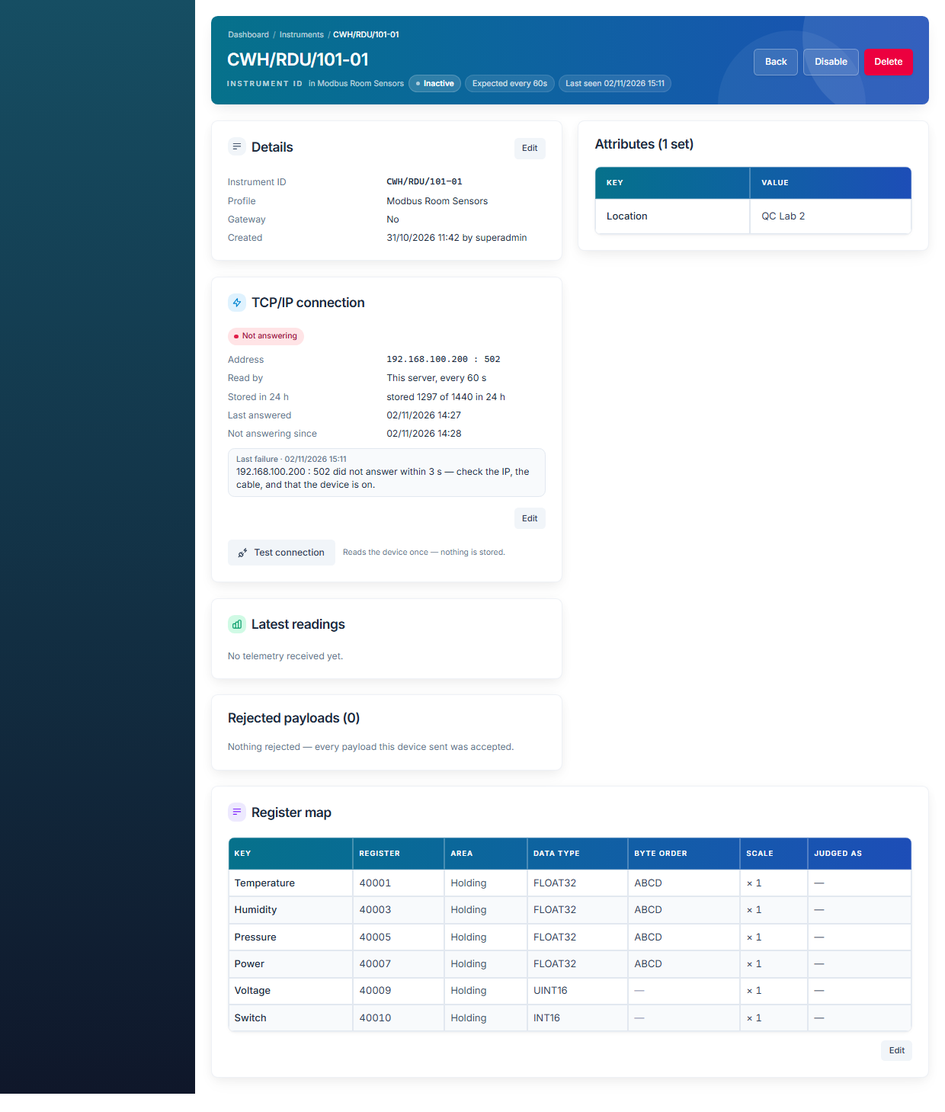
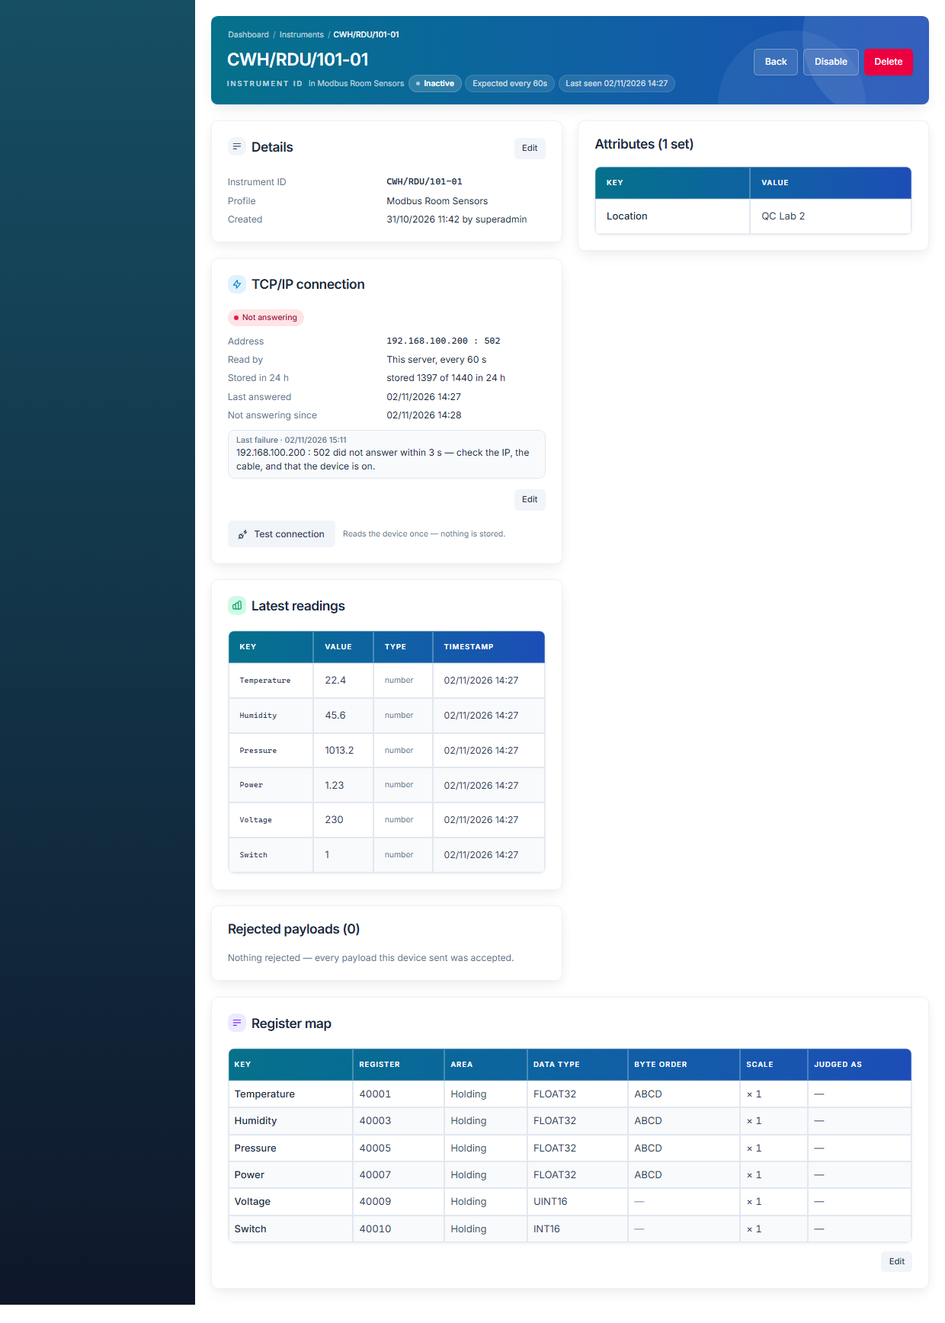
docs: TCP/IP (Modbus) instruments — the final review fixes
F-10. docs/feature-notes.md TCP/IP INSTRUMENTS: the Reader paragraph names the
"not answering" back-off (F-5); the storage-failure rule drops ruling T9-3's
"neither advanced NOR reset" for F-4's reset; the status route's state rule is
`not-read` before `failing` (F-2) and its card's error state (F-8); Security
says a device certificate is refused for a TCP/IP instrument (F-3). A short
"Final review fixes" paragraph records F-1 … F-9; the "Open, for the final
review" list is replaced by what the review left open (rulings F-parked) —
the fixed items gone, including the stale "two transactions" line (fixed in
45e1248d). CHANGELOG.md: one line under the TCP/IP entry.

Reference screens re-shot by the render-check method (built stylesheet from an
out-of-tree vite build, Inter inlined, headless Chrome at 1240 px; the
temporary dump harness deleted): built-detail-failing.png with a coherent
polled fixture (last seen = last answered = the latest readings' time, header
Inactive beside the card's Not answering, no Gateway row) and
built-detail-not-read.png for F-2 (reading OFF over a stale failingSince:
"Not read" with its reason, no "Not answering since", the last failure kept).

Both docs carry another session's uncommitted hunks; this commit holds only
these edits (anchored blob, their numstat unchanged). No count moved.

Changed region(s): [[0.2145, 0.0, 0.9806, 0.9561], [0.3984, 0.1234, 0.5516, 0.2159], [0.7968, 0.8944, 0.8274, 0.9253]]

diff --git a/docs/feature-notes.md b/docs/feature-notes.md
@@ -16,18 +16,19 @@ Counts quoted inside them are historical — the live numbers are in `CLAUDE.md`
   - **The protocol** lives in `apps/api/src/modules/modbus/protocol/` (client, planner, decoder; imports only `node:net` and `@digilog/shared`) — ruling **P1**: the spec's `packages/modbus` is created in Part 3 by moving these files unchanged, so Parts 1–2 add NO workspace (installer, `.deb` and AWS build untouched). Hand-written MBAP, FC 03 / 04 only, no writes, no coils; ≤ 125 registers per request; connect timeout 3 s, response 1 s, one TCP connection per read. Decode: FLOAT32 rounded to 7 significant digits, a scaled integer to the decimals of `scale` (2301 × 0.1 = 230.1), an unscaled integer stays an integer; a NaN / ±Inf FLOAT32 is not stored and is dead-lettered with its raw words. Failure words (exact, the server's): `NO_ANSWER` "{host} : {port} did not answer within 3 s — check the IP, the cable, and that the device is on."; `REFUSED` "{host} refused port {port} — the device is reachable but not listening on that port."; `DEVICE_EXCEPTION` "The device refused registers {range} (exception {n}, {name}) — the register map does not match it."; **`BAD_RESPONSE` has TWO sentences (ruling T2-1)** — a timeout says "… accepted the connection but did not answer the read within 1 s.", a reply with the wrong transaction, unit, function code or length says "… answered, but the reply did not match the request (wrong transaction, unit, function code or length) — check the unit ID and the register map." (the spec's one sentence was false for the second case and would have put a false cause into a §11 audit row).
   - **Configuration → TCP/IP Reading** (def `modbus-reader`, SUPER_ADMIN card, dynamic page): **"Read devices from this server" ships OFF** and while OFF the server opens NO Modbus connection — no reads, and Test connection answers `READING_OFF` "Reading devices from this server is off (Configuration → TCP/IP Reading)." **Device networks** (CIDRs, comma or newline) default `10.0.0.0/8, 172.16.0.0/12, 192.168.0.0/16`; a plant narrows it to its device subnets and narrowing stops reads at the next read. The zod schema requires both keys (the dynamic PUT replaces the row; a body without `deviceNetworks` would silently re-widen it). A plant install turns reading on once; **an AWS install leaves it off**, so a cloud server cannot be made to connect into its own network. Local: OFF on `compliance_core_db` and `_test` (2026-11-02).
   - **Test connection (Part 1).** `POST /api/instruments/modbus/test` `{profileId, modbusHost, modbusPort, modbusRegisters, instrumentId?}`: `INSTRUMENT_CREATE` or `INSTRUMENT_UPDATE`, no re-auth, **10 per minute per user**, stores nothing, audits nothing. Order: profile must be TCP/IP (400 `NOT_A_TCPIP_PROFILE`), map through the shared schema (400), `instrumentId` must be in view (404), the address rules (`ADDRESS_NOT_ALLOWED` = 400; **`ADDRESS_IN_USE` = 200 `ok:false`**, unlike create's 409, so the form can say it before Save), then the OFF switch (200 `READING_OFF`), then one read. Answer `{ok:true, elapsedMs, requests, values:[{key, value, judgedAs}], rejected:[{key, reason}]}` or `{ok:false, code, message}`. `judgedAs` is the server's `resolvedSlotFor` over the map's keys for that profile — when two keys fold to one measurement, only the one actually judged is marked; the form shows it after a test and "—" before ("Not judged" for `null`), never a browser guess. A result is dropped as soon as the draft it was read with changes.
-  - **The Reader (Part 2)**, started in `app.ts` after the MQTT bridge whatever the switch (it reads the switch at every reload and before every read, so turning it on needs no restart), stopped in `shutdown()` before `app.close()`; never started by the e2e app (tests drive `readOnce`). A 1 s tick; every **5 s** it asks whether its inputs changed and rebuilds the schedule only then. Each instrument is read every `modbusIntervalSec` of its profile at a stable phase (FNV-1a of its id) so a hundred devices are not read in one second; at most **16 reads in flight** and **1 per host:port**; an instrument whose previous read is still running skips that slot; one blocked by a cap waits. `readOnce` re-reads the instrument, profile and switch from the database before EVERY read (`readTarget`, the one rule — also what the status route explains): reading off, not a TCP/IP profile, instrument or profile disabled, no address, no map, an address outside the networks, or a stored value no route could have written (`INVALID_CONFIG`, logged) — and then no socket is opened. A read builds a prototype-less `{key: value, …, ts: <read start>}` and calls **`ingestPayload` with `transport 'modbus'` and `lastSeenVia 'polled'`** (identity: never a gateway, `deviceCert.required false`) — the ONLY change to the ingest core is that optional argument, so offsets, limits, alarms, history, dashboards and reports needed no change. Decoder refusals are **ONE dead letter per read** listing every refused key (ruling T9-2; one per key at the 10 s minimum would be ~8,640 rows a day per dead probe). `stop()` aborts in-flight reads and a read that finishes after it writes nothing; switching reading OFF empties the schedule at the next reload but lets a read in flight finish and be stored.
-  - **"Not answering" is debounced and audited once per transition.** Model `ModbusPollStatus` (`modbus_poll_status`, one row per instrument, operational state, not a §11 record): `lastAttemptAt`, `lastSuccessAt`, `failingSince`, `consecutiveFailures`, `lastErrorCode/Message/At`, `readBy` ('server') and **`failureRunStartedAt`** — a column the spec did not list (ruling T9-0): it holds the first failure of the current run from the run's first miss, so `failingSince` is still right after a restart mid-run. The **third** consecutive failed read sets `failingSince` to it and writes the SYSTEM row `MODBUS_DEVICE_NOT_ANSWERING` "{code}: {host}:{port} stopped answering — {reason}"; the first success after that clears it and writes `MODBUS_DEVICE_ANSWERING` "{code}: answering again after {missed} missed reads, {from}–{to}" (`to` = the read that answered); each in the same transaction as the status change. One or two misses write nothing. **A storage failure is not a device failure (rulings T9-1, T9-3)** — when the device answered but `ingestPayload` could not store it, the attempt and error go on the status row and the error log, but the run is neither advanced NOR reset and no row is written ("stopped answering" would be false about a device that answered). Both actions are in `SYSTEM_AUDIT_ACTIONS` and substituted in `apps/web/src/routes/audit/audit-helpers.ts`.
+  - **The Reader (Part 2)**, started in `app.ts` after the MQTT bridge whatever the switch (it reads the switch at every reload and before every read, so turning it on needs no restart), stopped in `shutdown()` before `app.close()`; never started by the e2e app (tests drive `readOnce`). A 1 s tick; every **5 s** it asks whether its inputs changed and rebuilds the schedule only then. Each instrument is read every `modbusIntervalSec` of its profile at a stable phase (FNV-1a of its id) so a hundred devices are not read in one second; at most **16 reads in flight** and **1 per host:port**; an instrument whose previous read is still running skips that slot; one blocked by a cap waits. A device that is "not answering" is tried only every `max(interval, 60 s)` (`FAILING_RETRY_SEC`) until a read is stored, then goes back to its own slot (final review F-5) — about 54 dead devices at the 10 s minimum would otherwise hold all 16 slots for their 3 s connect timeouts. `readOnce` re-reads the instrument, profile and switch from the database before EVERY read (`readTarget`, the one rule — also what the status route explains): reading off, not a TCP/IP profile, instrument or profile disabled, no address, no map, an address outside the networks, or a stored value no route could have written (`INVALID_CONFIG`, logged) — and then no socket is opened. A read builds a prototype-less `{key: value, …, ts: <read start>}` and calls **`ingestPayload` with `transport 'modbus'` and `lastSeenVia 'polled'`** (identity: never a gateway, `deviceCert.required false`) — the ONLY change to the ingest core is that optional argument, so offsets, limits, alarms, history, dashboards and reports needed no change. Decoder refusals are **ONE dead letter per read** listing every refused key (ruling T9-2; one per key at the 10 s minimum would be ~8,640 rows a day per dead probe). `stop()` aborts in-flight reads and a read that finishes after it writes nothing; switching reading OFF empties the schedule at the next reload but lets a read in flight finish and be stored.
+  - **"Not answering" is debounced and audited once per transition.** Model `ModbusPollStatus` (`modbus_poll_status`, one row per instrument, operational state, not a §11 record): `lastAttemptAt`, `lastSuccessAt`, `failingSince`, `consecutiveFailures`, `lastErrorCode/Message/At`, `readBy` ('server') and **`failureRunStartedAt`** — a column the spec did not list (ruling T9-0): it holds the first failure of the current run from the run's first miss, so `failingSince` is still right after a restart mid-run. The **third** consecutive failed read sets `failingSince` to it and writes the SYSTEM row `MODBUS_DEVICE_NOT_ANSWERING` "{code}: {host}:{port} stopped answering — {reason}"; the first success after that clears it and writes `MODBUS_DEVICE_ANSWERING` "{code}: answering again after {missed} missed reads, {from}–{to}" (`to` = the read that answered); each in the same transaction as the status change. One or two misses write nothing. **A storage failure is not a device failure (ruling T9-1; final review F-4 overturned T9-3)** — when the device answered but `ingestPayload` could not store it, the attempt and error go on the status row and the error log and no row is written ("stopped answering" would be false about a device that answered); it never advances the run, and while the device is not yet "not answering" it RESETS it (miss · miss · storage failure · miss is no transition); once `failingSince` is set only a stored read ends that. Both actions are in `SYSTEM_AUDIT_ACTIONS` and substituted in `apps/web/src/routes/audit/audit-helpers.ts`.
   - **No new alarm source — a silent device is the INACTIVITY alarm.** A failed read stores nothing, so `lastSeenAt` stops moving and the Inactivity pass raises it. That def ships OFF (ON locally, grace 1 min); **check it on AWS at deploy**. While it is off, the status route returns `inactivityAlarmsOff: true` and the card says "No alarm is raised when this device stops answering — Inactivity Alarms are off (Configuration → Inactivity Alarms)."
   - **"Reporting" follows the read interval** (ruling **P3**): `effectiveExpectedIntervalSec(instrument, profile)` beside `isInstrumentReporting` in `@digilog/shared` = the instrument's own `expectedIntervalSec`, else the TCP/IP profile's `modbusIntervalSec`, else null — used by every server caller (`buildTelemetryOverview`, the activity summary, the functional-location counts; the inactivity pass reads the overview row's `reporting` and freezes the effective interval in its snapshot), pinned by `lib/__tests__/reporting-resolver-callers.test.ts`. Without it a silent TCP/IP instrument read "reporting" for a day. **Ruling T8-1:** the instrument list / detail / create / update payloads carry the server's `reporting` and `effectiveExpectedIntervalSec` (declared), and the Instruments list, the instrument page and Settings print them — no web file calls `isInstrumentReporting` (the same test pins it).
-  - **`GET /api/instruments/:id/modbus-status`** (`INSTRUMENT_READ`, out of view = 404, a Gateway instrument = 400 `NOT_A_TCPIP_INSTRUMENT`, a name the brief left open) → `{state, notReadReason?, notReadDetail?, readBy, intervalSec, lastSuccessAt, failingSince, lastError?, stored24h, expected24h, inactivityAlarmsOff}`. `state` is `failing` **iff** `failingSince` is set, else `reading` when the Reader's own `readTarget` would read it, else `not-read`; `notReadReason` is that rule's code — the spec's four (`SERVER_READING_OFF`, `INSTRUMENT_DISABLED`, `NO_REGISTER_MAP`, `NO_ADDRESS`) plus `PROFILE_DISABLED`, `ADDRESS_NOT_ALLOWED`, `INVALID_CONFIG` — with `notReadDetail`, the Reader's sentence, printed verbatim. `lastError` is reported whatever its cause (a storage error included). `stored24h` = distinct reading instants in 24 h; `expected24h` = ⌊86400 / interval⌋. Polled every 15 s.
+  - **`GET /api/instruments/:id/modbus-status`** (`INSTRUMENT_READ`, out of view = 404, a Gateway instrument = 400 `NOT_A_TCPIP_INSTRUMENT`, a name the brief left open) → `{state, notReadReason?, notReadDetail?, readBy, intervalSec, lastSuccessAt, failingSince, lastError?, stored24h, expected24h, inactivityAlarmsOff}`. `state` is `not-read` whenever the Reader's own `readTarget` would not read it, else `failing` iff `failingSince` is set, else `reading` (final review F-2: the Reader clears `failingSince` only on a stored read, so a device disabled or no longer asked kept a stale one and read "Not answering"; `failingSince` is still returned and the card prints "Not answering since" only while `failing`); `notReadReason` is that rule's code — the spec's four (`SERVER_READING_OFF`, `INSTRUMENT_DISABLED`, `NO_REGISTER_MAP`, `NO_ADDRESS`) plus `PROFILE_DISABLED`, `ADDRESS_NOT_ALLOWED`, `INVALID_CONFIG` — with `notReadDetail`, the Reader's sentence, printed verbatim. `lastError` is reported whatever its cause (a storage error included). `stored24h` = distinct reading instants in 24 h; `expected24h` = ⌊86400 / interval⌋. Polled every 15 s; a failed request shows "Could not load the connection status.", the server's message and Try again (F-8).
   - **Screens.** New Profile: Connection Gateway | TCP/IP (Modbus), with TCP/IP "Read every" (10 s .. 60 min presets) and "Unit ID". New Instrument (TCP/IP profile): Is Gateway / Reports through gateway hidden; TCP/IP connection (IP address, Port 502, the profile's interval and unit ID); Register map (Key, Register, Area, Data type, Byte order [32-bit], Scale, Judged as; + Add key; **Copy from instrument…** — `GET /api/instruments?connection=MODBUS_TCP` then `GET /:id`, ruling **P4**; **Import keys file**; both replace the map after a confirm); Test connection; no token dialog. Instrument page (TCP/IP): a **TCP/IP connection** card (state badge, address, "This server, every N s", "stored N of M in 24 h", last answered, not answering since, the last failure as the server worded it, the Inactivity sentence, Edit address with a reason, Test connection) in place of Access token / Device certificate / Connection; the **Register map** card FULL WIDTH after the two-column grid (read-only; Edit for a SUPER_ADMIN, with a reason). Bulk upload (TCP/IP profile): headings **"IP address"** and **"Port"** (port default 502), an optional per-upload **"Copy register map from"** (a TCP/IP instrument in view, applied to CREATED rows only); an existing row's blank keeps, a changed address needs the upload's one remark; the same address twice in one file refuses every such row; preview and upload plan alike. Status colour only where it means status: the state badge, the Test-connection pill, the amber Inactivity-off warning.
   - **Render check (2026-11-02, built stylesheet, Inter inlined, headless Chrome at 1240 px with the 256 px sidebar; `built-*.png` in the concept folder)** found two faults, both fixed: the Data type select squeezed to "FLOAT3" on New Instrument (the widths sat on table CELLS, which Chrome ignores; now on the controls — `42bf00c8`), and on the instrument page the seven-column map in the half-width column hid Byte order, Scale and Judged as (now full width — `6271a889`). Longest key checked: a 41-character key prints whole in the Test-connection values and the read-only map; in the editable Key input about 29 characters show at this width and the rest scroll inside the input (its own behaviour). `192.168.100.200 : 502` fits everywhere.
-  - **Security.** Modbus TCP has no authentication and no encryption; the application only READS (FC 03 / 04) and never writes to a device; segmentation of the plant network is the customer's. No device secret exists for a TCP/IP instrument. The server connects only with the switch ON, only inside the device networks, never to loopback / link-local (cloud metadata) / multicast / broadcast; Test connection is rate-limited and needs instrument create / update rights. The e2e app alone passes `allowLoopbackForTests` (ruling P-1) so a test can read its in-process fake slave on 127.0.0.1; `app.ts` never sets it and nothing reads it from the environment.
+  - **Security.** Modbus TCP has no authentication and no encryption; the application only READS (FC 03 / 04) and never writes to a device; segmentation of the plant network is the customer's. No device secret exists for a TCP/IP instrument — issuing it a device certificate is refused 400 `NOT_FOR_TCPIP` (final review F-3; revoke still works). The server connects only with the switch ON, only inside the device networks, never to loopback / link-local (cloud metadata) / multicast / broadcast; Test connection is rate-limited and needs instrument create / update rights. The e2e app alone passes `allowLoopbackForTests` (ruling P-1) so a test can read its in-process fake slave on 127.0.0.1; `app.ts` never sets it and nothing reads it from the environment.
   - **Part 3 (not built):** a Plant Reader service on a plant PC for a server in AWS (outbound HTTPS, a reader key, `packages/modbus`, Configuration → Plant Readers). **Readings a Plant Reader delivers late will be stored and drawn but NOT judged** — limit alarms evaluate the latest value, so an excursion during an outage raises no alarm when it arrives; the outage itself raises the Inactivity alarm. Accepted for Part 3 (spec §11.6); judging late readings is a separate alarm-pipeline change (spec §15 Q3).
   - **101-01 (spec §15 Q1, answered):** register it FRESH as a TCP/IP instrument once Part 2 is deployed and reading is on; no profile move is built (`CONNECTION_DIFFERS`). The operator withdraws 101-01's old token and disables the old 101-01 (its readings are the desktop tool's simulator data). Production writes on AWS are the operator's.
   - **Counts moved:** models 38 → **39** (`ModbusPollStatus`; enums 13 unchanged), API modules 25 → **26** (`modbus`), audit actions 100 → **102** and templates 113 → **115** (7 categories), config defs 36 → **37** (`modbus-reader.def.ts`), shared type files 38 → **39** (`types/modbus.ts`). Unchanged: routes 56, config pages 23, reauth actions 57, sidebar items 15, queue tasks 7 (the Reader is in-process, not a graphile task), workspaces. Migrations `20261031120000_tcpip_instruments` and `20261031130000_modbus_poll_status` (hand-authored, both databases; drift guard run as plain commands 2026-11-02: empty diff against both).
-  - **Open, for the final review:** a device certificate can still be issued to a TCP/IP instrument (no bypass — ingest still needs a token it does not have); Test connection is outside the Reader's per-host:port lock (a one-connection device can be opened twice); the status card has no error branch (a failed status fetch shows "Checking the connection…"); a disabled instrument with a stale `failingSince` reads "Not answering" and hides why it is not read; the audit sentence's `{from}`–`{to}` are raw UTC ISO; a backwards clock step stalls reads up to the step. Bulk: an existing row's address and attribute changes are two transactions (address first); two instruments swapping addresses in one file is refused; an attribute literally named "IP address" / "Port" is shadowed on a TCP/IP profile. "Not judged" vs the concept's "Shown only" — confirm with the operator.
+  - **Final review fixes (2026-11-02; `final-review.md`, rulings F-1 … F-10; commits `87b157a2..11ab0e21`).** **F-1** a bulk upload that moves an EXISTING TCP/IP instrument's address takes the configurable `UPDATE_INSTRUMENT` re-auth, as `PUT /:id` does — only when the role's policy asks; the password sent for `CREATE_INSTRUMENT` is reused, so one upload asks once. **F-2** the status route: `not-read` outranks `failing` (above). **F-3** no device certificate is issued to a TCP/IP instrument. **F-4** a storage failure resets a run of misses not yet "not answering" (overturns T9-3). **F-5** a "not answering" device is retried every `max(interval, 60 s)`; `readOnce` returns `failing: true`. **F-6** `readDevice` rejects a unit id outside 0..255 or a port outside 1..65535 at entry — a hand-edited unit 300 threw inside the socket's connect listener, an uncaught exception that ends the process; Test connection refuses a stored bad unit id 400 `INVALID_CONFIG` with the Reader's sentence. **F-7** a device that closes or resets the line after accepting it: "{host} : {port} closed the connection without answering the read." **F-8** the connection card shows a failed status request. **F-9** `GET /eligible-children` offers Gateway-profile instruments only, and a TCP/IP instrument's page neither prints "Gateway" nor offers Is Gateway (both could only end in `NOT_FOR_TCPIP`). `built-detail-failing.png` / `built-detail-not-read.png` re-shot with a coherent polled fixture (header and card agree; not-read = reading OFF over a stale `failingSince`).
+  - **Open after the final review (parked by ruling F-parked):** Test connection is outside the Reader's per-host:port lock (a one-connection device can be opened twice); the audit sentence's `{from}`–`{to}` are raw UTC ISO; a backwards clock step stalls reads up to the step; the 10 s last-seen throttle equals the minimum interval; every last-seen stamp moves the Reader's reload signature (a rebuild about every 5 s); the 24 h stored count scans history every 15 s per open page; the card's smaller points ("This server, every N s" while not read, green "Reading" under a persistent storage failure), the input-register hint prefix, full maps in list responses. Bulk: two instruments swapping addresses in one file is refused; an attribute literally named "IP address" / "Port" is shadowed on a TCP/IP profile. "Not judged" vs the concept's "Shown only" — confirm with the operator. For the hand-over: a disabled TCP/IP instrument keeps its address; reading OFF with Inactivity Alarms ON alarms every TCP/IP instrument after the grace.
   - **Tests:** shared `types/__tests__/modbus.test.ts`; API `modules/modbus/protocol/__tests__/{client,decode,plan}.test.ts` (an in-process fake slave, `src/test-support/fake-modbus-slave.ts`), `modules/modbus/__tests__/reader.e2e.test.ts`, `e2e/{tcpip-profiles,tcpip-instruments,modbus-test-connection,tcpip-bulk,instrument-reporting-fields}.e2e.test.ts`, `lib/__tests__/reporting-resolver-callers.test.ts`, plus additions to `instruments.test.ts`, `telemetry-overview`, `instrument-activity-summary`, `alarm-inactivity`, `ingest-core`, `bulk-csv`, `bulk-plan`; web `instruments/__tests__/{profile-connection,register-map-editor,test-connection-panel,create-tcpip,detail-tcpip,bulk-create,reporting-from-server-*}.test.tsx`, `config/__tests__/{index-tcpip-card,instrument-attributes}.test.tsx`, `settings/__tests__/status-of.test.ts` — one file per process.
 
 - **DASHBOARDS — many named dashboards, built by a SUPER_ADMIN, seen by assignment (2026-10-29, phase 1 of 4; operator: "… like in thingsboard i need same feature like different dashboards creation and different types of widgtes, like charts, graphs, trends, time series, alarms and more", then "yes proceed" to the playback and "do best one" for the look).** Spec `docs/superpowers/specs/2026-10-29-dashboard-builder-design.md`; plan `docs/superpowers/plans/2026-10-29-dashboard-builder-phase1.md`; ledger `.superpowers/sdd/2026-10-29-dashboard-builder-phase1/progress.md`. Built, **not pushed, not deployed.**

diff --git a/CHANGELOG.md b/CHANGELOG.md
@@ -44,6 +44,7 @@ Commits `cf02b4ef..` on `data-layer` after the plan `363c7263`. **Built, not pus
   diff against both). **Counts:** models 38 → 39 (`ModbusPollStatus`), modules 25 → 26 (`modbus`),
   audit actions 100 → 102 / templates 113 → 115, config defs 36 → 37, shared type files 38 → 39;
   enums 13, routes 56, config pages 23, reauth 57, sidebar 15, queue tasks 7 unchanged.
+- **Final review fixes (2026-11-02, `87b157a2..11ab0e21`):** a bulk address change on an existing TCP/IP instrument takes the `UPDATE_INSTRUMENT` re-auth like the single edit; "Not read", never "Not answering", for an instrument the server is not reading; no device certificate for a TCP/IP instrument (revoke still works); a storage failure resets a run of misses (overturns ruling T9-3); a "not answering" device is retried every max(interval, 60 s); a hand-edited unit id or port is refused before any socket (it could crash the API); a dropped line has its own sentence; the status card shows a failed request; nothing offers Gateway for a TCP/IP instrument.
 - **Owed by the operator:** turn TCP/IP Reading on locally / at the plant (it is OFF); check
   Inactivity Alarms on AWS at deploy; 101-01 is registered FRESH as a TCP/IP instrument after the
   deploy and its old token withdrawn (spec §15 Q1). Part 3 (the Plant Reader for an AWS server) is
